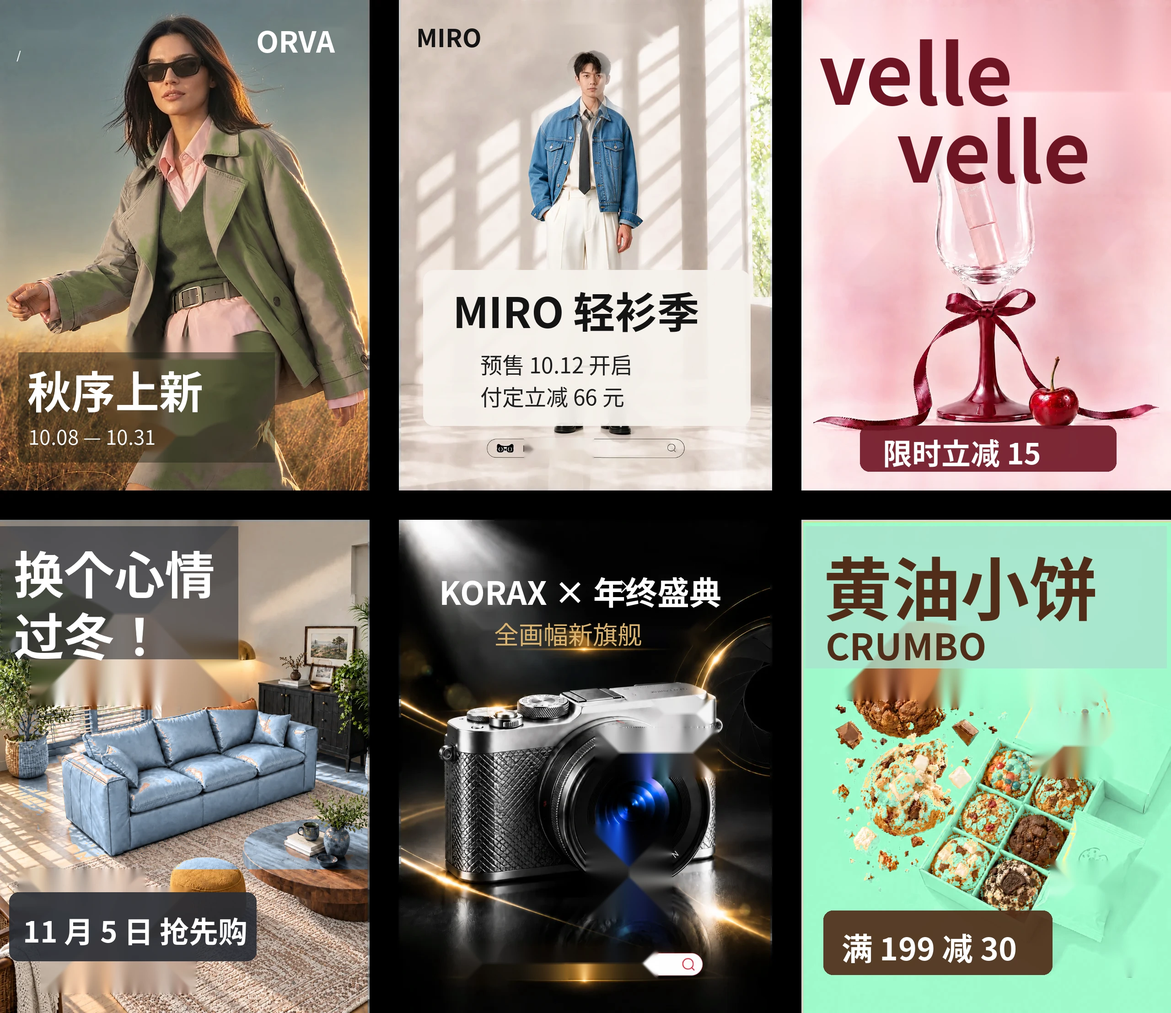
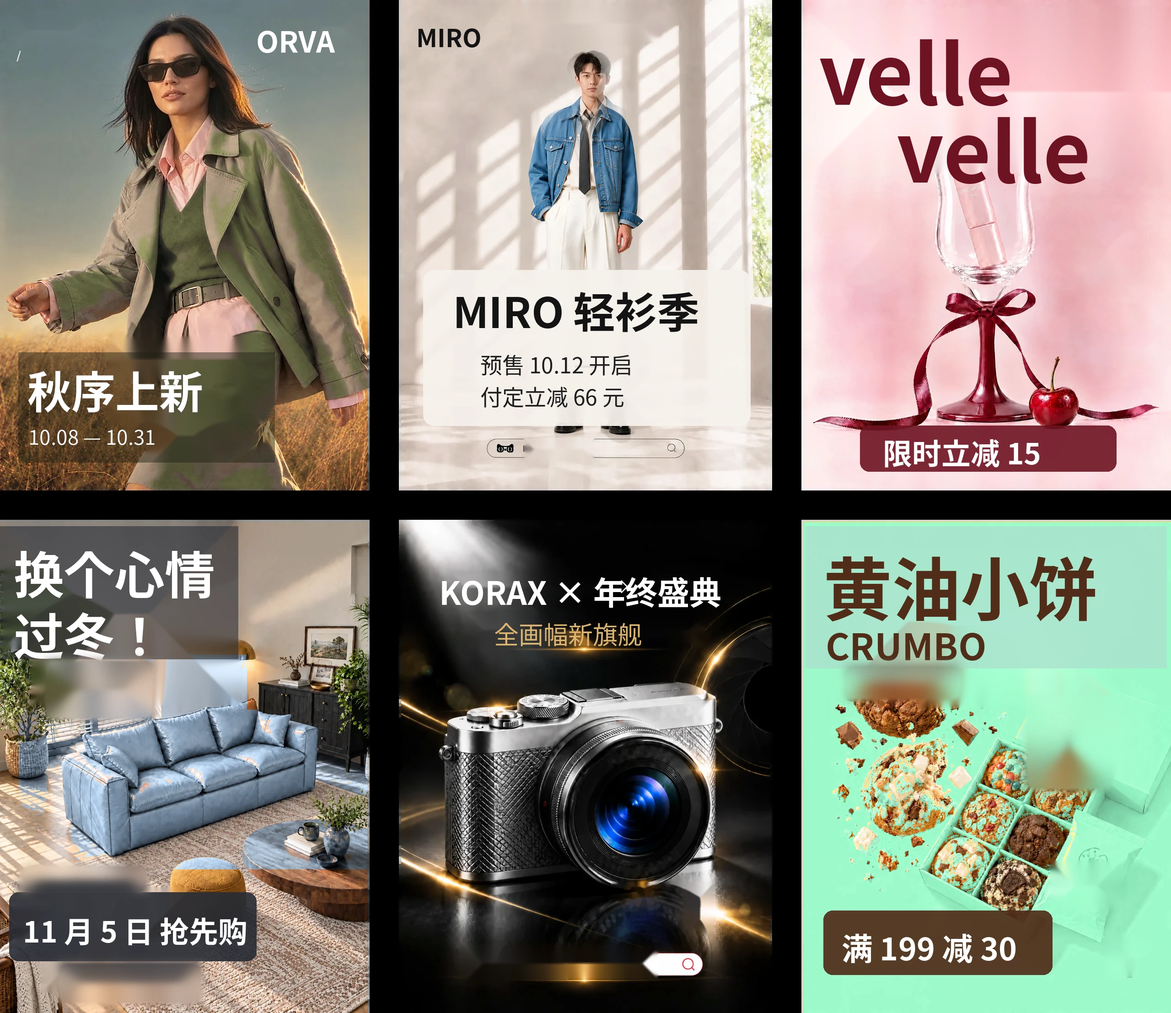
assets(#673 next): promo poster5 lens restored (glyph-only erase on gold lens), poster4/6 smears smoothed; poster2 halo kept per design

diff --git a/docs/design/673/next/smear_fix.py b/docs/design/673/next/smear_fix.py
@@ -1,0 +1,22 @@
+# poster4 / poster6 smear repair: normalized-convolution fill (smooth, no streaks) + fine grain
+from PIL import Image
+import numpy as np,cv2
+a=np.array(Image.open('promo_ex01_lens.png').convert('RGB')).astype(np.float32)
+def fill(a,boxes,sig=28,fe=10):
+    m=np.zeros(a.shape[:2],np.float32)
+    for x0,y0,x1,y1 in boxes: m[y0:y1,x0:x1]=1
+    k=1-m;num=cv2.GaussianBlur(a*k[...,None],(0,0),sig);den=cv2.GaussianBlur(k,(0,0),sig)[...,None]+1e-4
+    f=num/den+np.random.default_rng(7).normal(0,2.0,a.shape)
+    w=cv2.GaussianBlur(m,(0,0),fe)[...,None];w=np.clip(w*1.6,0,1)
+    return a*(1-w)+f*w
+# poster6: top-left cookie streaks, box-lid streaks, bottom-right speck
+a=fill(a,[(1845,1455,2100,1528),(2245,1520,2430,1725),(2490,2090,2540,2140)])
+# poster4: left wall streaks, bottom floor streaks
+a=fill(a,[(100,1445,335,1570),(50,1893,320,1952),(128,2105,440,2192)],sig=22)
+a=np.clip(a,0,255).astype(np.uint8)
+# poster4 sofa: leftover orange specks -> slate (recolour miss)
+h=cv2.cvtColor(a,cv2.COLOR_RGB2HSV);yy,xx=np.mgrid[0:a.shape[0],0:a.shape[1]]
+s=(xx>90)&(xx<540)&(yy>1430)&(yy<1700)&(h[...,0]<22)&(h[...,1]>60)
+h[...,0]=np.where(s,105,h[...,0]);h[...,1]=np.where(s,(h[...,1]*0.35).astype(np.uint8),h[...,1])
+a=cv2.cvtColor(h,cv2.COLOR_HSV2RGB)
+Image.fromarray(a).save('promo_ex01_fixed.png')

diff --git a/docs/design/673/next/lens_fix.py b/docs/design/673/next/lens_fix.py
@@ -1,0 +1,19 @@
+# poster5 lens: restore gold lens texture, erase only glyph pixels (no box inpaint)
+from PIL import Image
+import numpy as np,cv2
+g=np.array(Image.open('gold_ex01.png').convert('RGB'));f=np.array(Image.open('promo_ex01.png').convert('RGB'))
+cx,cy=1395,1770
+yy,xx=np.mgrid[0:g.shape[0],0:g.shape[1]];r=np.hypot(xx-cx,yy-cy)
+V=cv2.cvtColor(g,cv2.COLOR_RGB2HSV)[...,2].astype(int)
+m=np.zeros(g.shape[:2],np.uint8)
+ring=(r>108)&(r<152)&(V>140);m[ring]=255
+bx=(xx>1425)&(xx<1560)&(yy>1540)&(yy<1580)&(V<120);m[bx]=255
+rf=(xx>1240)&(xx<1560)&(yy>1930)&(yy<2060)&(V>70);m[rf]=255
+m=cv2.dilate(m,np.ones((5,5),np.uint8))
+c=cv2.inpaint(g,m,4,cv2.INPAINT_TELEA)
+cv2.imwrite('/tmp/lensmask.png',m)
+reg=((r<215)|((xx>1230)&(xx<1600)&(yy>1535)&(yy<1700))|((xx>1220)&(xx<1580)&(yy>1930)&(yy<2040))).astype(np.float32)
+reg=cv2.GaussianBlur(reg,(0,0),12)[...,None]
+o=(c*reg+f*(1-reg)).astype(np.uint8)
+Image.fromarray(o).save('promo_ex01_lens.png')
+Image.fromarray(np.concatenate([f[1400:2050,1100:1700],o[1400:2050,1100:1700]],1)).save('lens_LR.jpg',quality=90)
